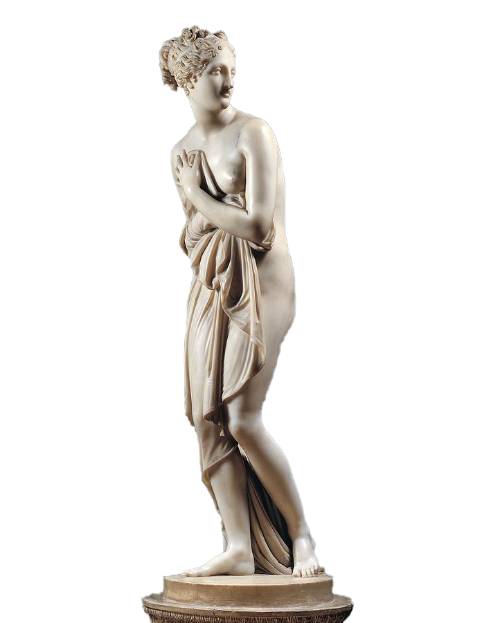
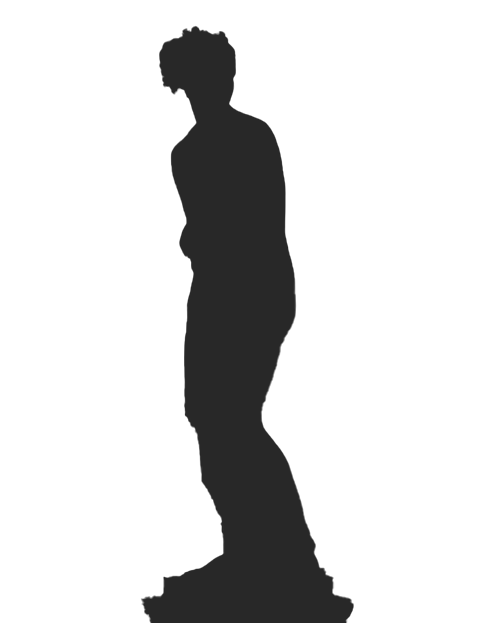
P02B: Finalized Project02 Body
Inserted final image files.

Changed region(s): [[0.27, 0.0305, 0.72, 1.0]]

diff --git a/Projects/Project02/Project02_Body/index.html b/Projects/Project02/Project02_Body/index.html
@@ -25,7 +25,9 @@
     <!-- Image Files of Statue Parts + Silhouette -->
     <img  id="statue-silhouette" class="statue" src="assets/images/canova.png" alt="incomplete-statue">
     <img  id="statue-bust" class="statue" src="assets/images/busto.png" alt="bust">
+    <img  id="statue-left-leg" class="statue" src="assets/images/left-leg.png" alt="bust">
     <img  id="statue-head" class="statue" src="assets/images/head.png" alt="bust">
+    <img  id="statue-right-leg" class="statue" src="assets/images/right-leg.png" alt="bust">
 
     <!-- Statue Sections (represented by circles) -->
     <p id="bust-section" class="statue-section"></p>

diff --git a/Projects/Project02/Project02_Body/css/body-style.css b/Projects/Project02/Project02_Body/css/body-style.css
@@ -21,9 +21,18 @@ body{
   opacity: 0;
 }
 
+#statue-left-leg{
+  opacity: 0;
+}
+
 #statue-head{
   opacity: 0;
 }
+
+#statue-right-leg{
+  opacity: 0;
+}
+
 
 .statue-section{
   padding: 40px;
